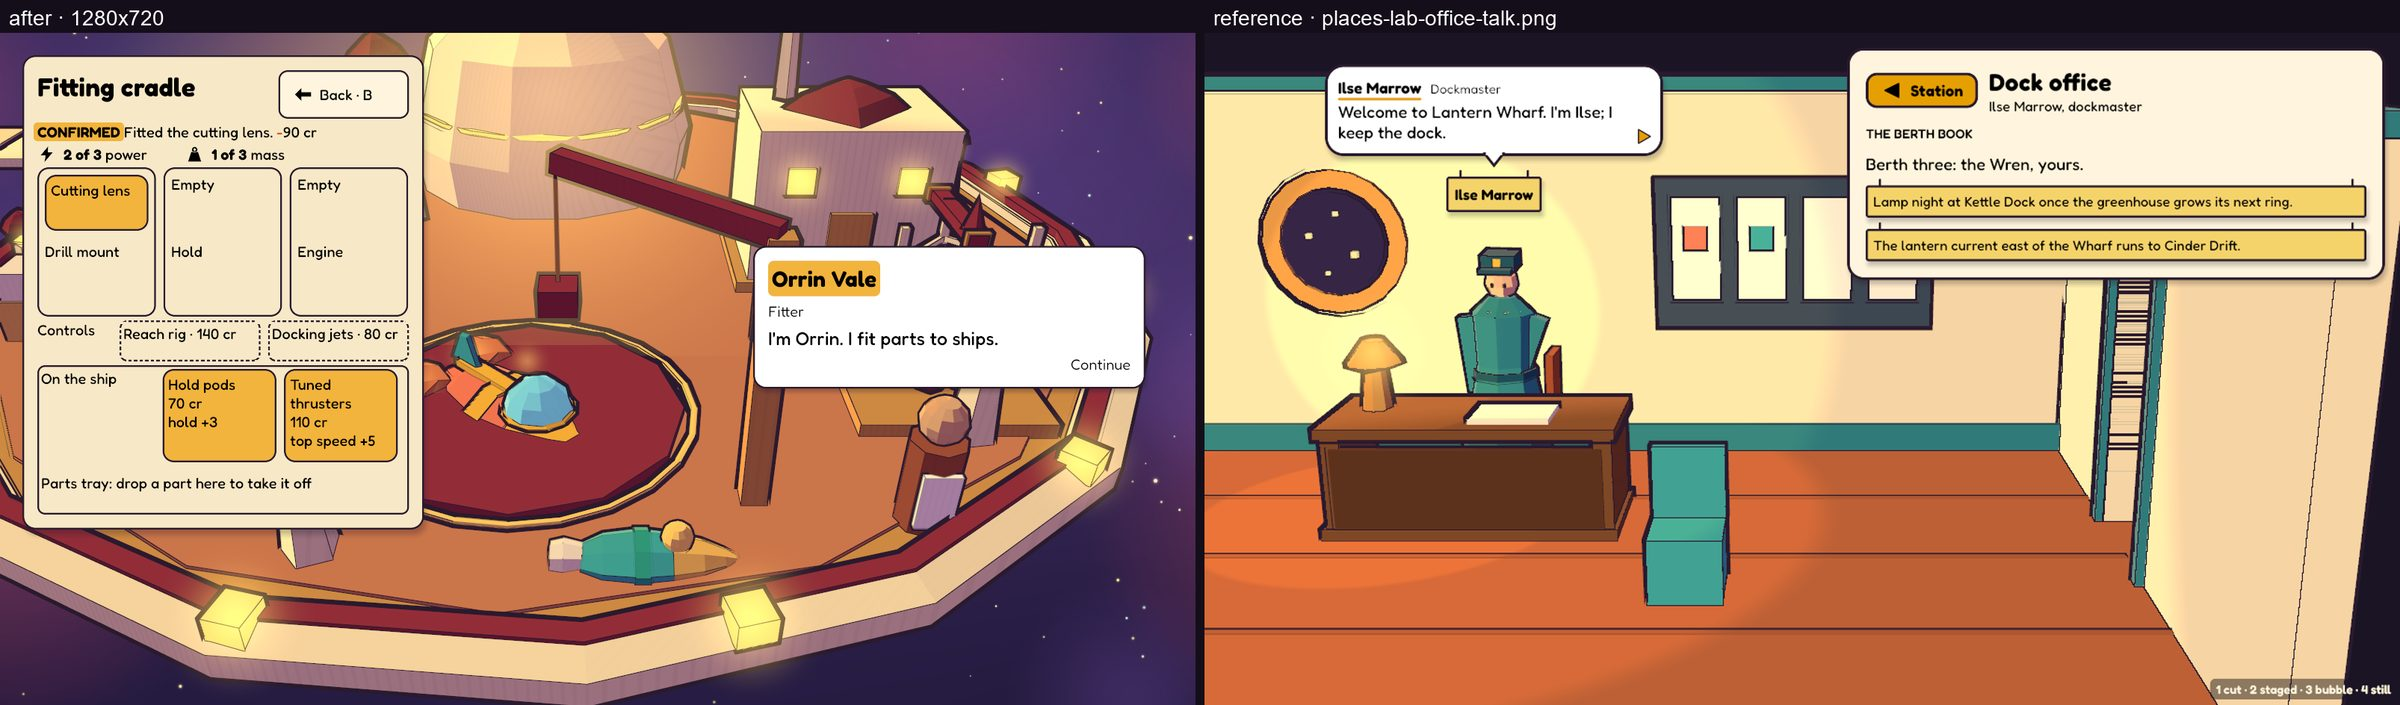
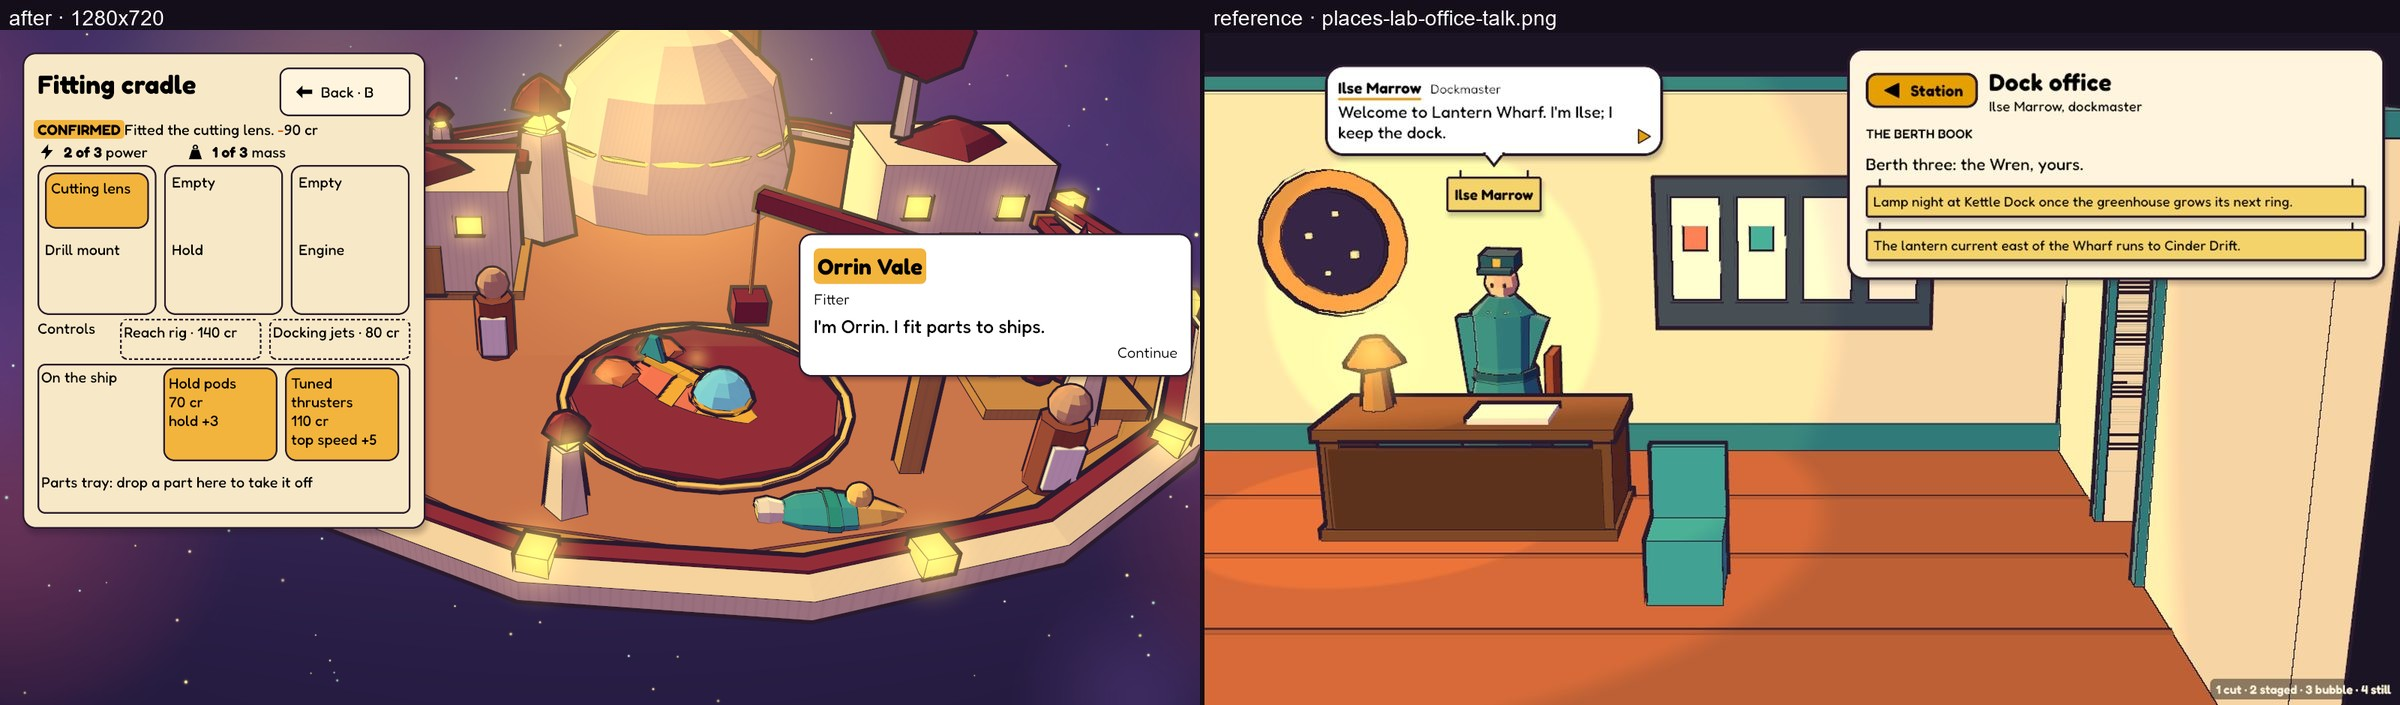
Core UI phase 2: ship clear of the cradle panel, trade fits a small window
The cradle's camera sits left of the berth and further back, so the fitted
ship shows right of the panel at 960x540 with Orrin still in view.

The exchange puts Sell everything and the last deal's receipt above the
wares, and the wares scroll within what a 960x540 window leaves them, so
selling and the receipt stay on screen with any mix of cargo aboard.

Tests: tests/trade-panel.luau (fails on the old layout), and small-window
bots tests/mixed-trade.bot.toml and tests/cradle-small.bot.toml. Evidence
pictures regenerated.

Changed region(s): [[0.0, 0.0312, 0.5, 1.0]]

diff --git a/game/evidence/core-ui-phase-2/README.md b/game/evidence/core-ui-phase-2/README.md
@@ -17,9 +17,10 @@ direction reference (`game/docs/direction/`).
 | `docked-key-launch-*` | `tests/play.inputs`, note 3 | `ui-lab-station-up-close.png` | Docked: the plate compact and dark, the key's icons dark with an icon per room kind, Launch gold. At 960x540 the key no longer overlaps Launch and the plate no longer overlaps the Exchange sign |
 | `exchange-sold-*` | `tests/play.inputs`, note 9 | `places-lab-market.png` | The exchange after selling: one ruled sheet with ware icons, heavy prices, Back beside the title, the receipt as a dark ticket with its CONFIRMED tag and a blue `+` |
 | `office-*` | `tests/play.inputs`, note 10 | `places-lab-market.png` | The office: each station's posted prices on its own sheet, the station's name standing out |
-| `exchange-resting-*` | `tests/fit-play.inputs`, note 3 | `slice-dock-bubble.png` | Cinder Kiln's exchange with a full hold: Sell gold, Buy 1 resting dashed with its reason beside it. At 960x540 it used to run off the bottom and cover the ship |
-| `cradle-fitted-*` | `tests/fit-play.inputs`, note 5 | `places-lab-cradle-drag.png` | The cradle after fitting the lens: the receipt on one line, power and mass as one short line with icons (whole sentences on hover). At 960x540 it used to run off the bottom |
-| `cradle-talk-*` | `tests/fit-play.inputs`, note 7 | `places-lab-office-talk.png` | Orrin's bubble beside the narrower cradle panel; at 1280x720 the ship now shows beside it |
+| `exchange-resting-*` | `galaxy shot`, Kiln's exchange opened with a full hold (tick 700) | `slice-dock-bubble.png` | Cinder Kiln's exchange with a full hold: Sell gold, Buy 1 resting dashed with its reason beside it. At 960x540 it used to run off the bottom and cover the ship |
+| `mixed-cargo-*`, `mixed-receipt-*` | `tests/mixed-trade.inputs`, ticks 1650 and 1670 | | Lantern's exchange with 2 ore, 3 ice and 1 plate aboard, then after selling just the plate. Sell everything and the receipt sit above the wares, which scroll; before, at 960x540 they ran below the window |
+| `cradle-fitted-*` | `tests/fit-play.inputs`, note 5 | `places-lab-cradle-drag.png` | The cradle after fitting the lens: the receipt on one line, power and mass as one short line with icons (whole sentences on hover). At 960x540 it used to run off the bottom. The cradle's camera sits left of the berth and further back, so the fitted ship shows right of the panel at both sizes |
+| `cradle-talk-*` | `tests/fit-play.inputs`, note 7 | `places-lab-office-talk.png` | Orrin's bubble beside the narrower cradle panel, with the ship beside it at both sizes |
 
 Problems the runs reported (`problems` in the play report):
 
@@ -29,7 +30,12 @@ Problems the runs reported (`problems` in the play report):
 - After: none at either size. The one resting click in `fit-play` is that run's own
   click on the resting Buy 1.
 
-Still open: at 960x540 the cradle's camera frames the ship on the left, under the
-panel. That framing is the room's camera (`camera.cradle`), which the rooms rebuild
-owns. Hover tooltips stay the engine's paper, because the installed build has no look
-for them.
+The small window has its own bots: `tests/mixed-trade.bot.toml` and
+`tests/cradle-small.bot.toml` (960x540 logical at 125% display scaling).
+`tests/trade-panel.luau` checks that Sell everything and the receipt come before the
+wares and that the wares scroll within what 960x540 leaves them. Measured with
+`galaxy shot --crop ship` in the cradle, the ship's centre moved from x=419 to x=563 at
+960x540 (the panel ends at 454) and from 559 to 751 at 1280x720.
+
+Still open: hover tooltips stay the engine's paper, because the installed build has no
+look for them.
